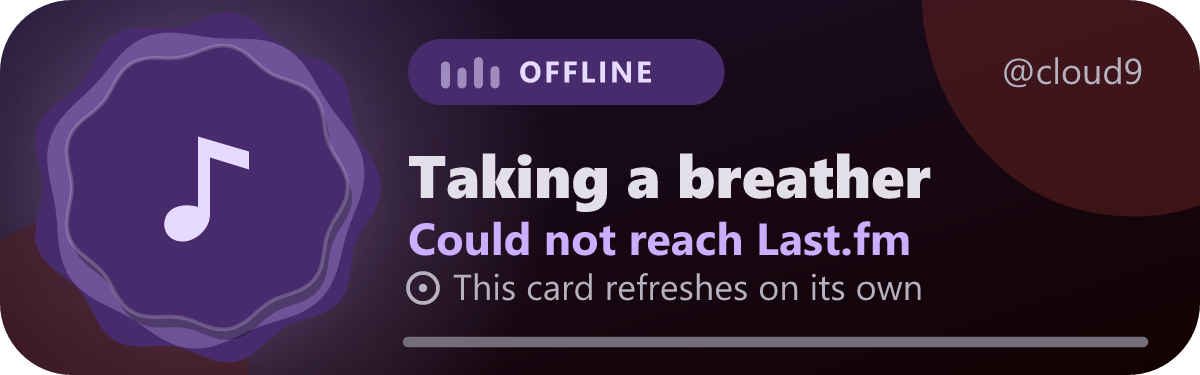
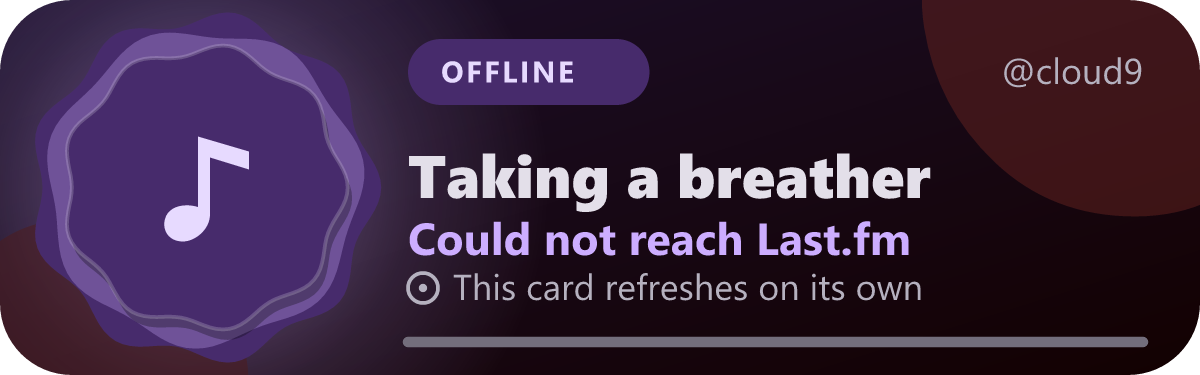
Keep the name tag on last-played cards, and never remember a throttled miss
- The animated bars are dropped from the pill on non-playing cards, and the
  name steps down from 24px to 20px before being hidden, so it no longer
  disappears when the "played N min ago" text gets longer.
- A very old track says "LAST PLAYED" instead of "PLAYED A WHILE AGO".
- Treat a 403, a 5xx or an HTML page from a catalogue as throttling, so it is
  never stored as "no such track".
- Replace two stray NUL bytes in art.ts with an escaped \u0000.

Changed region(s): [[0.37, 0.088, 0.6167, 0.2933]]

diff --git a/src/render/expressive.ts b/src/render/expressive.ts
@@ -21,8 +21,10 @@ export function renderExpressive(d: CardData, palette: Palette, opts: CardOption
   const PILL_PX = 20;
   const pillText = copy.pill;
   const pillTextW = textEm(pillText, false, true) * PILL_PX + pillText.length * 1.6;
-  const pillW = Math.min(COL_W, Math.round(22 + 50 + pillTextW + 24));
-  const pillLabel = fit(pillText, pillW - 98, PILL_PX, false, true);
+  // The animated bars only belong on a playing card; without them the pill is shorter and the name has room.
+  const pillIcon = live ? 52 : 0;
+  const pillW = Math.min(COL_W, Math.round(22 + pillIcon + pillTextW + 24));
+  const pillLabel = fit(pillText, pillW - 46 - pillIcon, PILL_PX, false, true);
 
   const bars = eqHeights(d.seed, 4, 22);
   const eq = bars
@@ -54,9 +56,11 @@ export function renderExpressive(d: CardData, palette: Palette, opts: CardOption
       `<path class="${fill("onPrimaryContainer")}" d="${notePath(CX - 22, CY - 34, 1)}"/>`;
 
   // The viewer's name, top right, when it fits beside the pill.
-  const HANDLE_PX = 24;
+  // Prefer 24px; step down to 20px for a long name before giving up on showing it.
   const handleText = d.user ? `@${d.user}` : "";
-  const handle = handleText && textEm(handleText) * HANDLE_PX <= COL_W - pillW - 20 ? esc(handleText) : "";
+  const handleRoom = COL_W - pillW - 20;
+  const HANDLE_PX = [24, 22, 20].find((px) => textEm(handleText) * px <= handleRoom) ?? 0;
+  const handle = handleText && HANDLE_PX ? esc(handleText) : "";
   const waveY = 228;
   const wave = sineWavePath(COL_X, COL_X + COL_W, waveY, live ? 7 : 0, WAVELENGTH);
 
@@ -80,8 +84,8 @@ export function renderExpressive(d: CardData, palette: Palette, opts: CardOption
     `<path d="${cookie}" fill="none" class="${stroke("onSurface")}" stroke-width="2.5" opacity=".22"/>` +
     `<g transform="translate(${COL_X} 26)">` +
     `<rect width="${pillW}" height="44" rx="22" class="${fill("primaryContainer")}"/>` +
-    `<g class="eq ${fill("onPrimaryContainer")}" transform="translate(22 11)">${eq}</g>` +
-    `<text x="74" y="29" font-family="${SANS}" font-size="${PILL_PX}" font-weight="700" letter-spacing="1.6" class="${fill("onPrimaryContainer")}">${esc(pillLabel)}</text>` +
+    (live ? `<g class="eq ${fill("onPrimaryContainer")}" transform="translate(22 11)">${eq}</g>` : "") +
+    `<text x="${22 + pillIcon}" y="29" font-family="${SANS}" font-size="${PILL_PX}" font-weight="700" letter-spacing="1.6" class="${fill("onPrimaryContainer")}">${esc(pillLabel)}</text>` +
     `</g>` +
     (handle
       ? `<text x="${COL_X + COL_W}" y="56" text-anchor="end" font-family="${SANS}" font-size="${HANDLE_PX}" font-weight="500" class="${fill("onVariant")}">${handle}</text>`

diff --git a/src/art.ts b/src/art.ts
@@ -122,9 +122,15 @@ async function json<T>(url: string, fetcher: typeof fetch, headers?: HeadersInit
   try {
     const init = { headers, cf: cacheOk(3600), signal: AbortSignal.timeout(LOOKUP_TIMEOUT_MS) } as RequestInit;
     const res = await fetcher(url, init);
-    if (res.status === 429 || res.status === 503) throw new Throttled(url);
+    // Anything that is not a clean answer (429, 403, a 5xx, an HTML error page) is throttling, not "no such
+    // track": it must never be remembered as a miss.
+    if (res.status === 429 || res.status === 403 || res.status >= 500) throw new Throttled(url);
     if (!res.ok) return null;
-    return (await res.json()) as T;
+    try {
+      return (await res.json()) as T;
+    } catch {
+      throw new Throttled(url);
+    }
   } catch (e) {
     if (e instanceof Throttled) throw e;
     return null;
@@ -225,7 +231,7 @@ export async function resolveArt(
   store?: ArtStore,
 ): Promise<Resolved> {
   // Keyed by artist and title only: Last.fm sometimes sends the same song with and without an album.
-  const key = hash(`${norm(track.artist)}${core(track.title)}${opts.artistCover ? 1 : 0}`).toString(36);
+  const key = hash(`${norm(track.artist)}\u0000${core(track.title)}\u0000${opts.artistCover ? 1 : 0}`).toString(36);
 
   // A remembered cover is the fast path: one store read, no image fetches, no decoding.
   const remembered = await store?.get(key);

diff --git a/test/render.test.ts b/test/render.test.ts
@@ -133,3 +133,26 @@ describe("status copy fits the card unshortened", () => {
     }
   });
 });
+
+describe("the name tag", () => {
+  it("is shown for every 'last played' age, not just short ones", async () => {
+    const { renderCard } = await import("../src/card.ts");
+    const { demoCard } = await import("../src/demo.ts");
+    const now = 1_800_000_000;
+    const { data, seed } = demoCard("idle", now);
+    for (const secs of [30, 540, 600, 3 * 3600, 12 * 3600, 36 * 3600, 20 * 86400, 400 * 86400]) {
+      for (const user of ["Cl0ud-9", "longer_name"]) {
+        const d = { ...data, user, now, track: { ...data.track!, playedAt: now - secs } };
+        const svg = renderCard(d, seed, { theme: "expressive", mode: "dark", still: true });
+        expect(svg, `${user} after ${secs}s`).toContain(`@${user}`);
+      }
+    }
+  });
+
+  it("is shown on a playing card too", async () => {
+    const { renderCard } = await import("../src/card.ts");
+    const { demoCard } = await import("../src/demo.ts");
+    const { data, seed } = demoCard("playing", 0);
+    expect(renderCard(data, seed, { theme: "expressive", mode: "dark", still: true })).toContain("@cloud9");
+  });
+});

diff --git a/test/art.test.ts b/test/art.test.ts
@@ -204,3 +204,20 @@ describe("cover memory key", () => {
     expect((await resolveArt({ title: "WILDFLOWER (Remastered)", artist: "Billie Eilish", album: "", artUrl: null }, boom, {}, store)).source).toBe("cache");
   });
 });
+
+describe("answers that are not a clean result", () => {
+  const track = { title: "Closer (feat. Halsey)", artist: "The Chainsmokers", album: "", artUrl: null };
+  for (const [name, reply] of [
+    ["a 403", () => new Response("Forbidden", { status: 403 })],
+    ["a 500", () => new Response("oops", { status: 500 })],
+    ["an HTML page served as 200", () => new Response("<html>slow down</html>", { status: 200 })],
+  ] as const) {
+    it(`treats ${name} as throttling, never as a remembered miss`, async () => {
+      const data = new Map<string, unknown>();
+      const store: ArtStore = { get: async (k) => (data.get(k) as never) ?? null, put: async (k, v) => { data.set(k, v); } };
+      const r = await resolveArt(track, async () => reply(), {}, store);
+      expect(r.source).toBe("itunes-blocked");
+      expect([...data.entries()].filter(([k, v]) => v === "none" && !k.startsWith("cooldown-"))).toEqual([]);
+    });
+  }
+});

diff --git a/src/render/common.ts b/src/render/common.ts
@@ -75,7 +75,7 @@ export function copyFor(d: CardData): Copy {
       return { pill: "NOW PLAYING", ago: "", title: d.track!.title, sub: d.track!.artist, meta: albumLine(d.track!.album, d.track!.title), live: true };
     case "idle": {
       const ago = timeAgo(d.track!.playedAt, d.now);
-      return { pill: ago ? `PLAYED ${ago.toUpperCase()}` : "LAST PLAYED", ago, title: d.track!.title, sub: d.track!.artist, meta: albumLine(d.track!.album, d.track!.title), live: false };
+      return { pill: ago && ago !== "a while ago" ? `PLAYED ${ago.toUpperCase()}` : "LAST PLAYED", ago, title: d.track!.title, sub: d.track!.artist, meta: albumLine(d.track!.album, d.track!.title), live: false };
     }
     case "empty":
       return { pill: "QUIET FOR NOW", ago: "", title: "All quiet", sub: "No scrobbles yet", meta: "Play a song to light this up", live: false };
